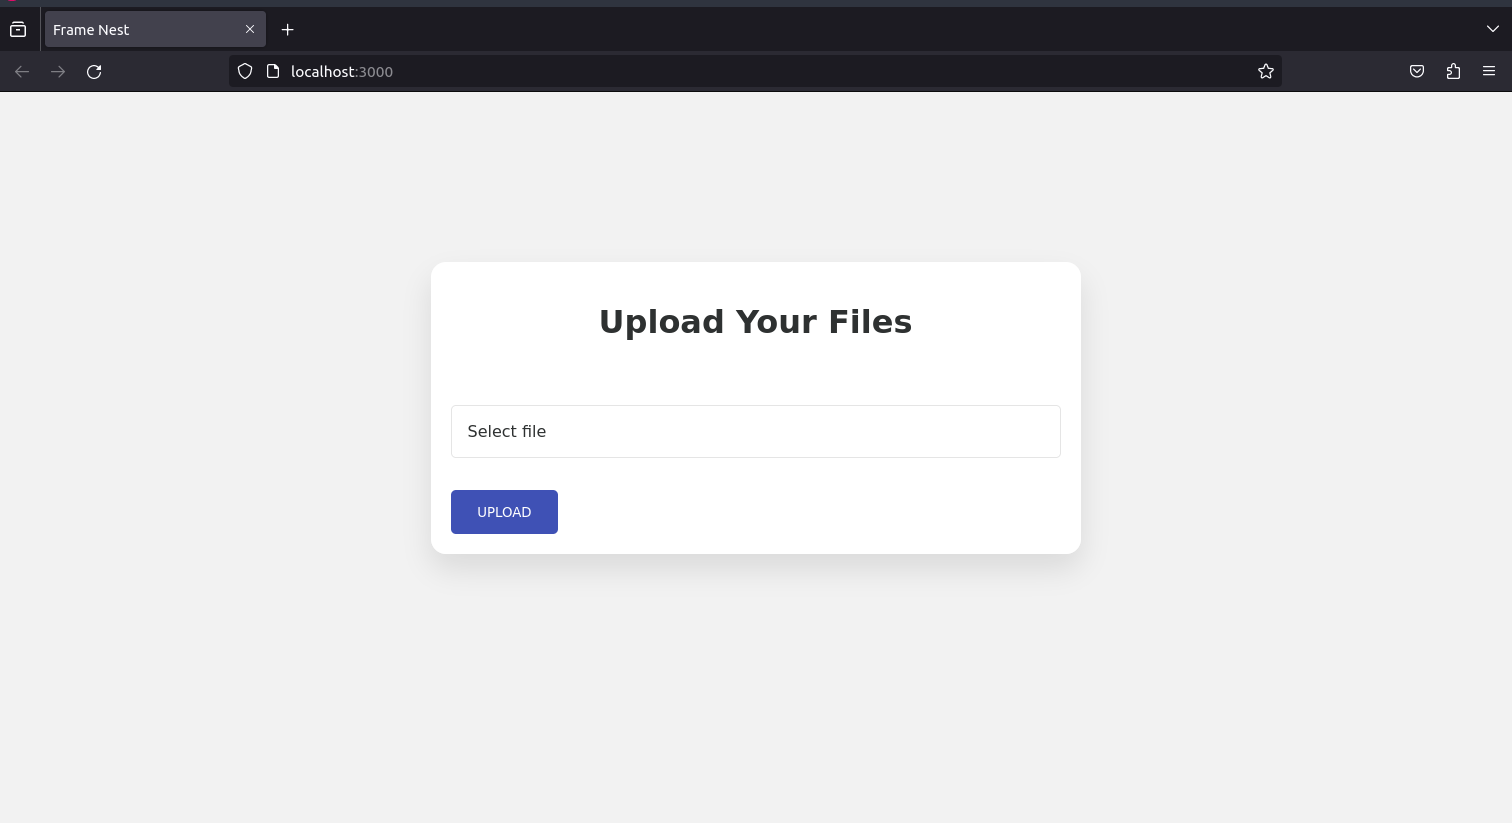
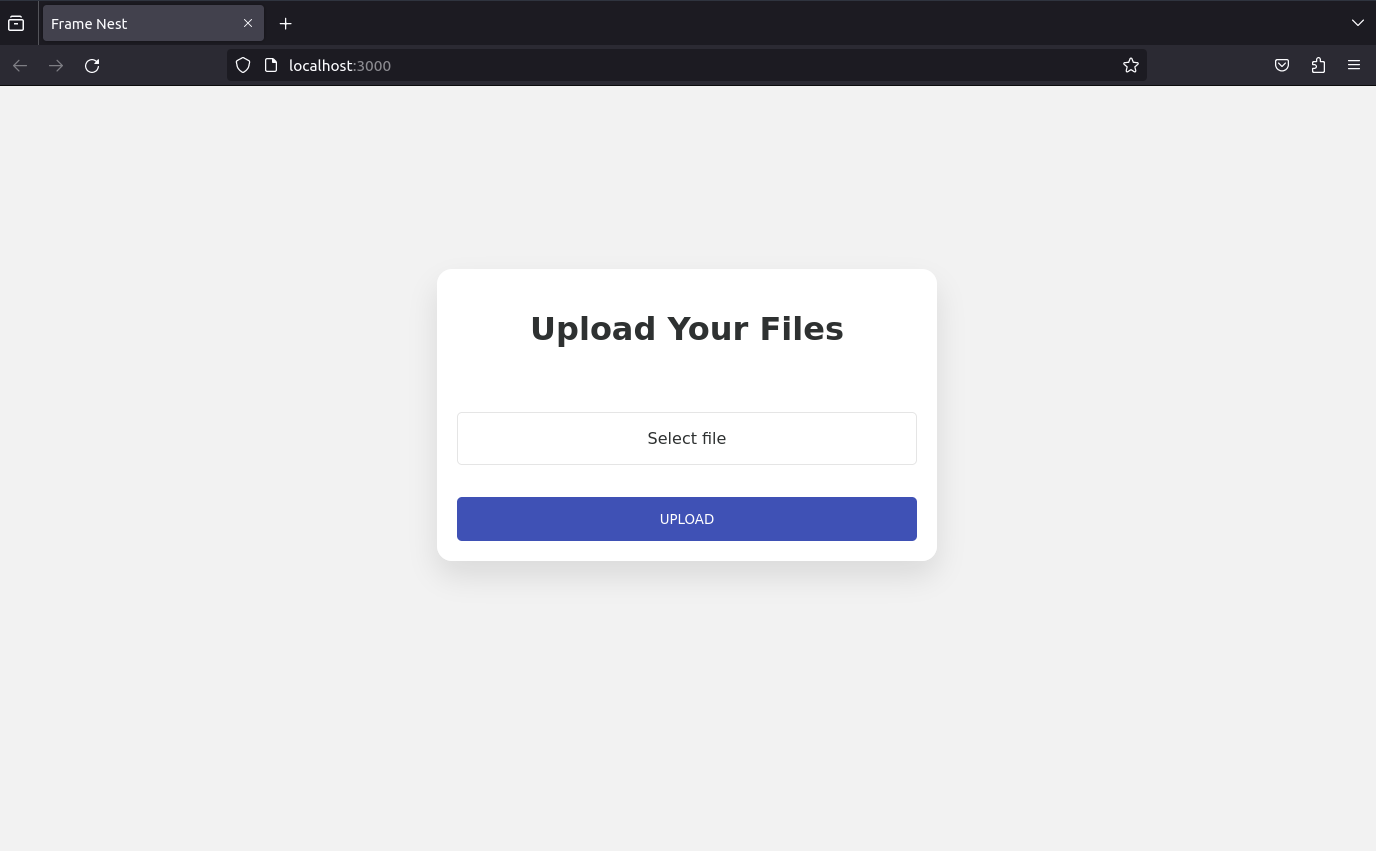
fix: adjust upoload button & usage instructions

diff --git a/public/style.css b/public/style.css
@@ -23,7 +23,7 @@ body {
     padding: 20px;
     border-radius: 15px;
     box-shadow: 0px 15px 30px rgba(0, 0, 0, 0.1);
-    max-width: 650px; 
+    max-width: 500px; 
     margin: auto; 
 }
 
@@ -39,6 +39,7 @@ body {
     border-radius: 5px;
     padding: 1em;
     cursor: pointer;
+    text-align: center;
 }
 
 .file-select:hover {
@@ -56,6 +57,7 @@ body {
     text-transform: uppercase;
     cursor: pointer;
     margin-top: 1em;
+    width: 100%;
 }
 
 .submit-btn:hover {

diff --git a/README.md b/README.md
@@ -9,7 +9,7 @@ The type of database it builds streamlines the training process of AI models in 
 &nbsp;
 
 ## Prerequisites
-Make sure you have [Node.js](https://nodejs.org/en/) and [Mongo Database](https://www.mongodb.com/) installed and running on your Mac or Linux.
+Make sure you have [Node.js](https://nodejs.org/en/) and [Mongo Database](https://www.mongodb.com/) installed and running on your Linux.
 > Additionally, you could also install [MongoDB Compass](https://www.mongodb.com/products/compass) to view the database, it's basically a GUI for MongoDB. *( although not required if you're comfortable with the command line )*
 #### Make sure you have the following installed:
 - Mongodb cli: [donwlod here](https://www.mongodb.com/try/download/community)
@@ -51,13 +51,16 @@ chmod +x db_upload.sh start.sh
 http://localhost:3000/
 ```
 
+ ⚠⚠⚠ Upload a batch of images by putting them inside a zip folder. Please note that the zip folder **should only contain images not nested inside any other folders.**
+
 &nbsp;
 
 ## OS specific instructions
-This installation guide is for Mac and Linux users.
+This installation guide is for Linux users.
 
 &nbsp;
 
 ## TODO
 - [ ] Add Windows installation guide
+- [ ] Add MacOS installation guide
 - [ ] Add code documentation
